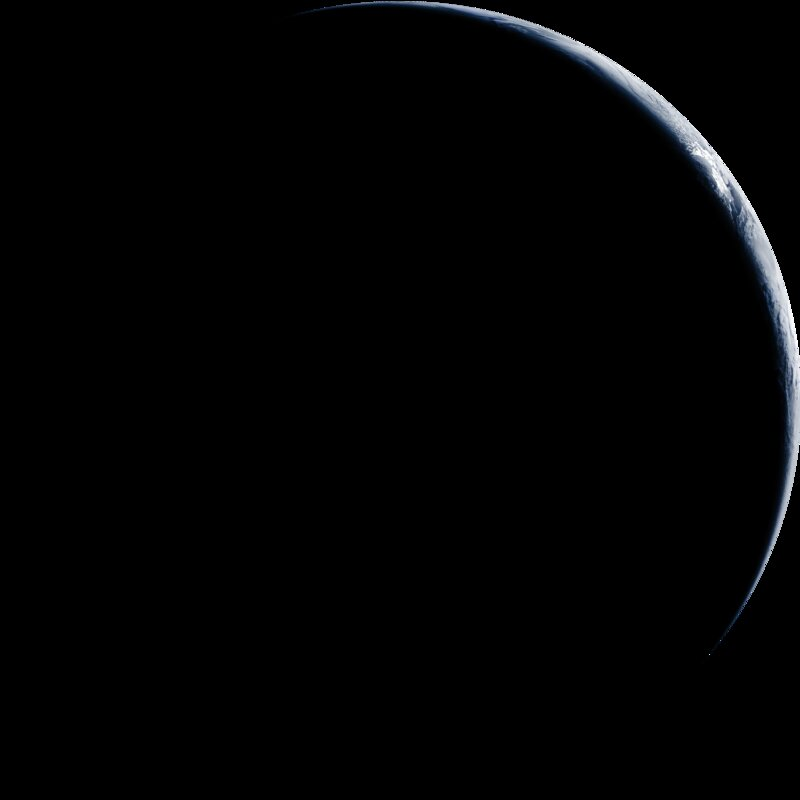
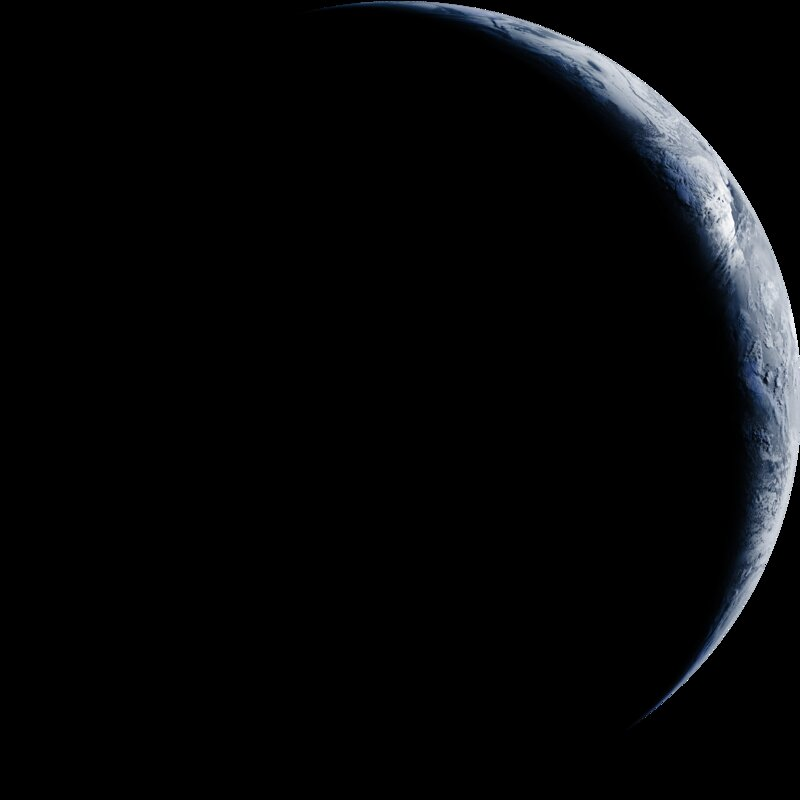
Update: 2026-05-04 09:00 UTC

Changed region(s): [[0.5, 0.0, 1.0, 0.9062]]

diff --git a/index.html b/index.html
@@ -75,7 +75,7 @@
                 <div class="timestamp" id="timestamp">Loading...</div>
             </div>
             <a class="img-link" onclick="openLightbox()" href="javascript:void(0)">
-                <img src="latest.jpg?v=1777881602" alt="Latest GOES-19 Full Disk Image" id="satimage">
+                <img src="latest.jpg?v=1777885202" alt="Latest GOES-19 Full Disk Image" id="satimage">
                 <div class="img-overlay">View full screen</div>
             </a>
             <div class="stats-bar">
@@ -139,7 +139,7 @@
     <!-- Lightbox -->
     <div class="lightbox" id="lightbox" onclick="closeLightbox()">
         <div class="lightbox-close" onclick="closeLightbox()">&#x2715;</div>
-        <img src="latest.jpg?v=1777881602" alt="GOES-19 Full Disk" id="lightbox-img">
+        <img src="latest.jpg?v=1777885202" alt="GOES-19 Full Disk" id="lightbox-img">
     </div>
 
     <script>
